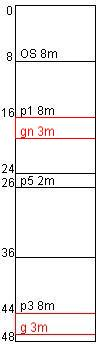
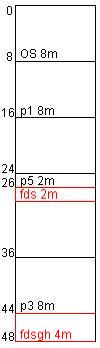
Correccion de errores en next

Changed region(s): [[0.12, 0.5172, 0.96, 0.6034], [0.12, 0.8908, 0.96, 1.0], [0.12, 0.3161, 0.96, 0.4023]]

diff --git a/07_Asignacion_Memoria/src/LOGIC/Controlador.java b/07_Asignacion_Memoria/src/LOGIC/Controlador.java
@@ -105,7 +105,7 @@ public class Controlador implements ActionListener {
 
                 if (a) {
                     int posi = 0;
-                    if (last == espacios.get((int) (espacios.size() - .1)) || last == 48) {
+                    if (last == espacios.get((int) (espacios.size() - .1)) || last == 48 || espacios.size() == 2) {
                         last = espacios.get(1) + size;
                         pos[0] = espacios.get(1);
                         pos[1] = 0;
